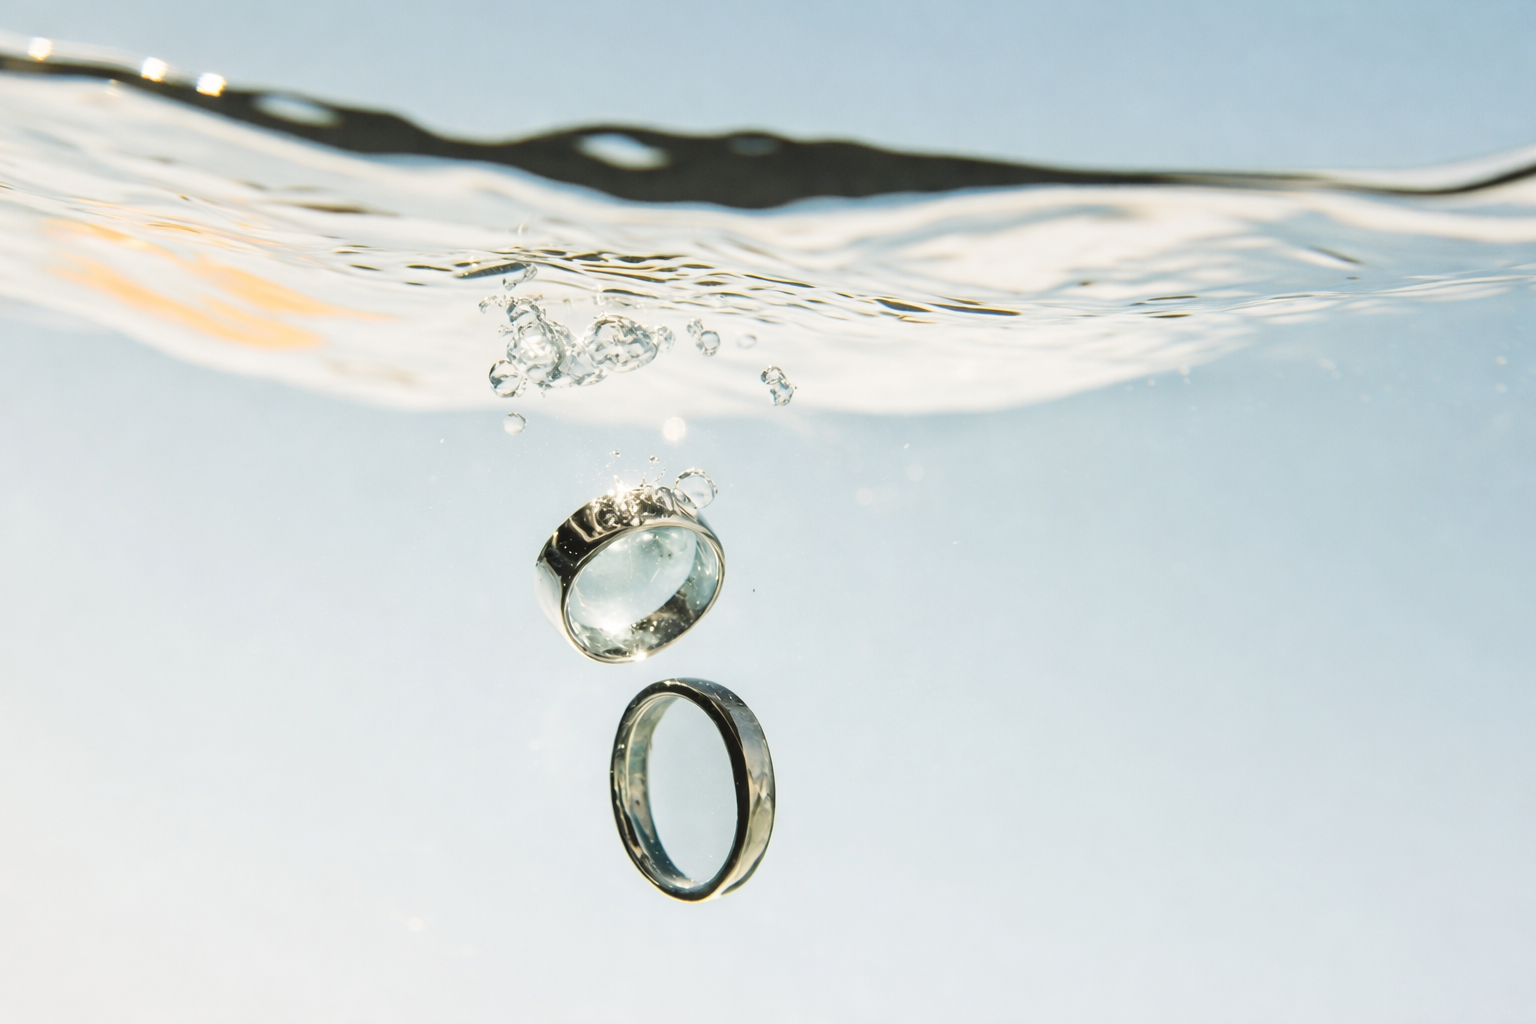
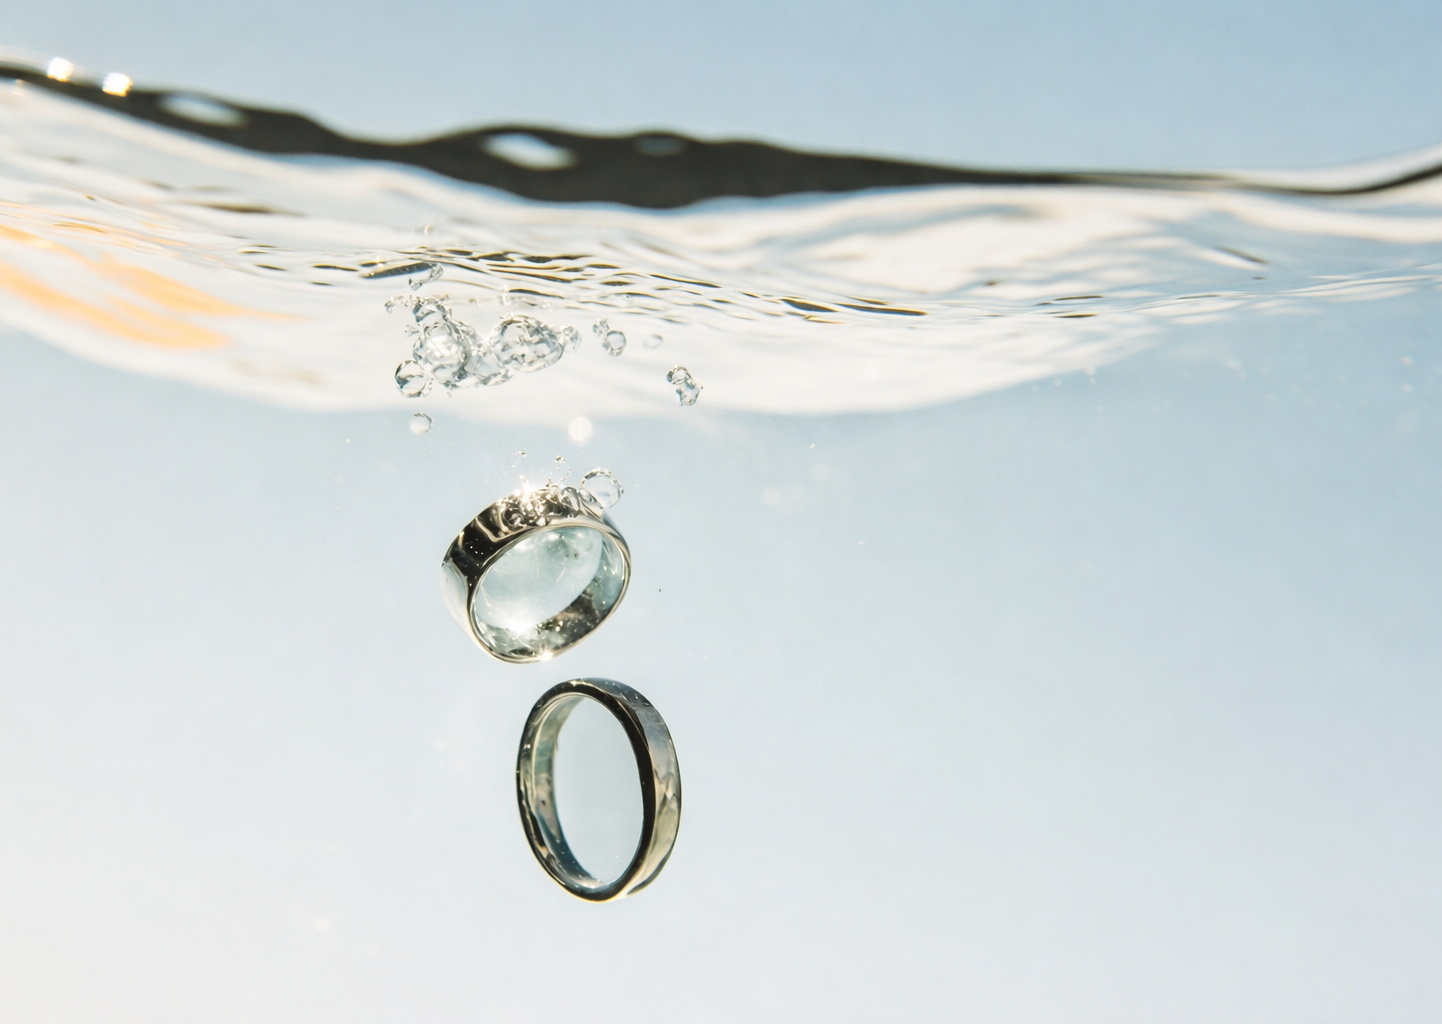
set new brand value

diff --git a/components/Home/BrandValue.tsx b/components/Home/BrandValue.tsx
@@ -3,59 +3,21 @@
 import { useEffect, useRef } from "react";
 import { gsap } from "gsap";
 import { Parallax } from "react-scroll-parallax";
+import { div } from "framer-motion/client";
 
 export default function BrandValue() {
   const BrandValueImg = '/assets/img/BrandValue/BrandValue.png';
-  const containerRef = useRef<HTMLDivElement | null>(null);
 
-  useEffect(() => {
-    if (!containerRef.current) return;
 
-    gsap.to(containerRef.current, {
-      y: '-50',
-      ease: "none",
-      scrollTrigger: {
-        trigger: containerRef.current,
-        start: "top bottom",
-        end: "bottom top",
-        scrub: 1,
-      }
-    });
-  }, []);
+  return(
+    <div className="relative w-full h-auto ">
+      <img src={BrandValueImg} alt="Rings Image" className=" w-full h-auto " />
 
-  return (
-    <div className="w-full h-[150vh] md:h-[150vh] relative overflow-hidden">
-      {/* Image Container */}
-      <div
-        ref={containerRef}
-        className="w-[150%] h-full md:h-[150vh] relative"
-      >
-        <Parallax speed={-10}>
-          <img
-            src={BrandValueImg}
-            alt="Brand Value"
-            className="w-full h-[150vh] md:h-full  object-cover object-center md:-translate-y-1/6 md:-translate-x-1/5 relative
-                       absolute top-0 left-0 md:relative"
-          />
-        </Parallax>
-      </div>
-
-      {/* Text Overlay */}
-      <div className="absolute right-0 bottom-0 mb-[40vw] md:mb-[15vw] inline-block px-6 xl:px-[4.58vw] lg:px-[50px]">
-        <div className="w-[65%] md:w-full ml-auto ">
-          <h2 className="md:font-medium md:text-[40px] md:leading-[123%] uppercase text-[#000000]">
-            Thoughtfully curated for you 
-          </h2>
-
-          <p className="md:text-[20px] md:leading-[140%] text-[#000000]/70 pt-[10px]">
-            Your diamond journey starts here. Where brilliance meets craftsmanship,<br /> and every sparkle tells your story.
-          </p>
-
-          <button className="BtnAnimation mt-[22px] cursor-pointer bg-[#FFFFFFFF]/50 w-[138px] h-[39px] rounded-full px-[30px] py-[12px] font-medium text-[12px] leading-[100%] text-[#000000] uppercase">
-            LEARN MORE
-          </button>
-        </div>
+      <div className="w-full md:w-[48%] absolute bottom-0 right-0 md:mb-[16.25%]  flex flex-col justify-center md:justify-normal items-start">
+        <h2>Thoughtfully curated for you </h2>
+        <p>Your diamond journey starts here. Where brilliance meets craftsmanship, and every sparkle tells your story.</p>
+        <button>LEARN MORE</button>
       </div>
     </div>
-  );
+  )
 }
